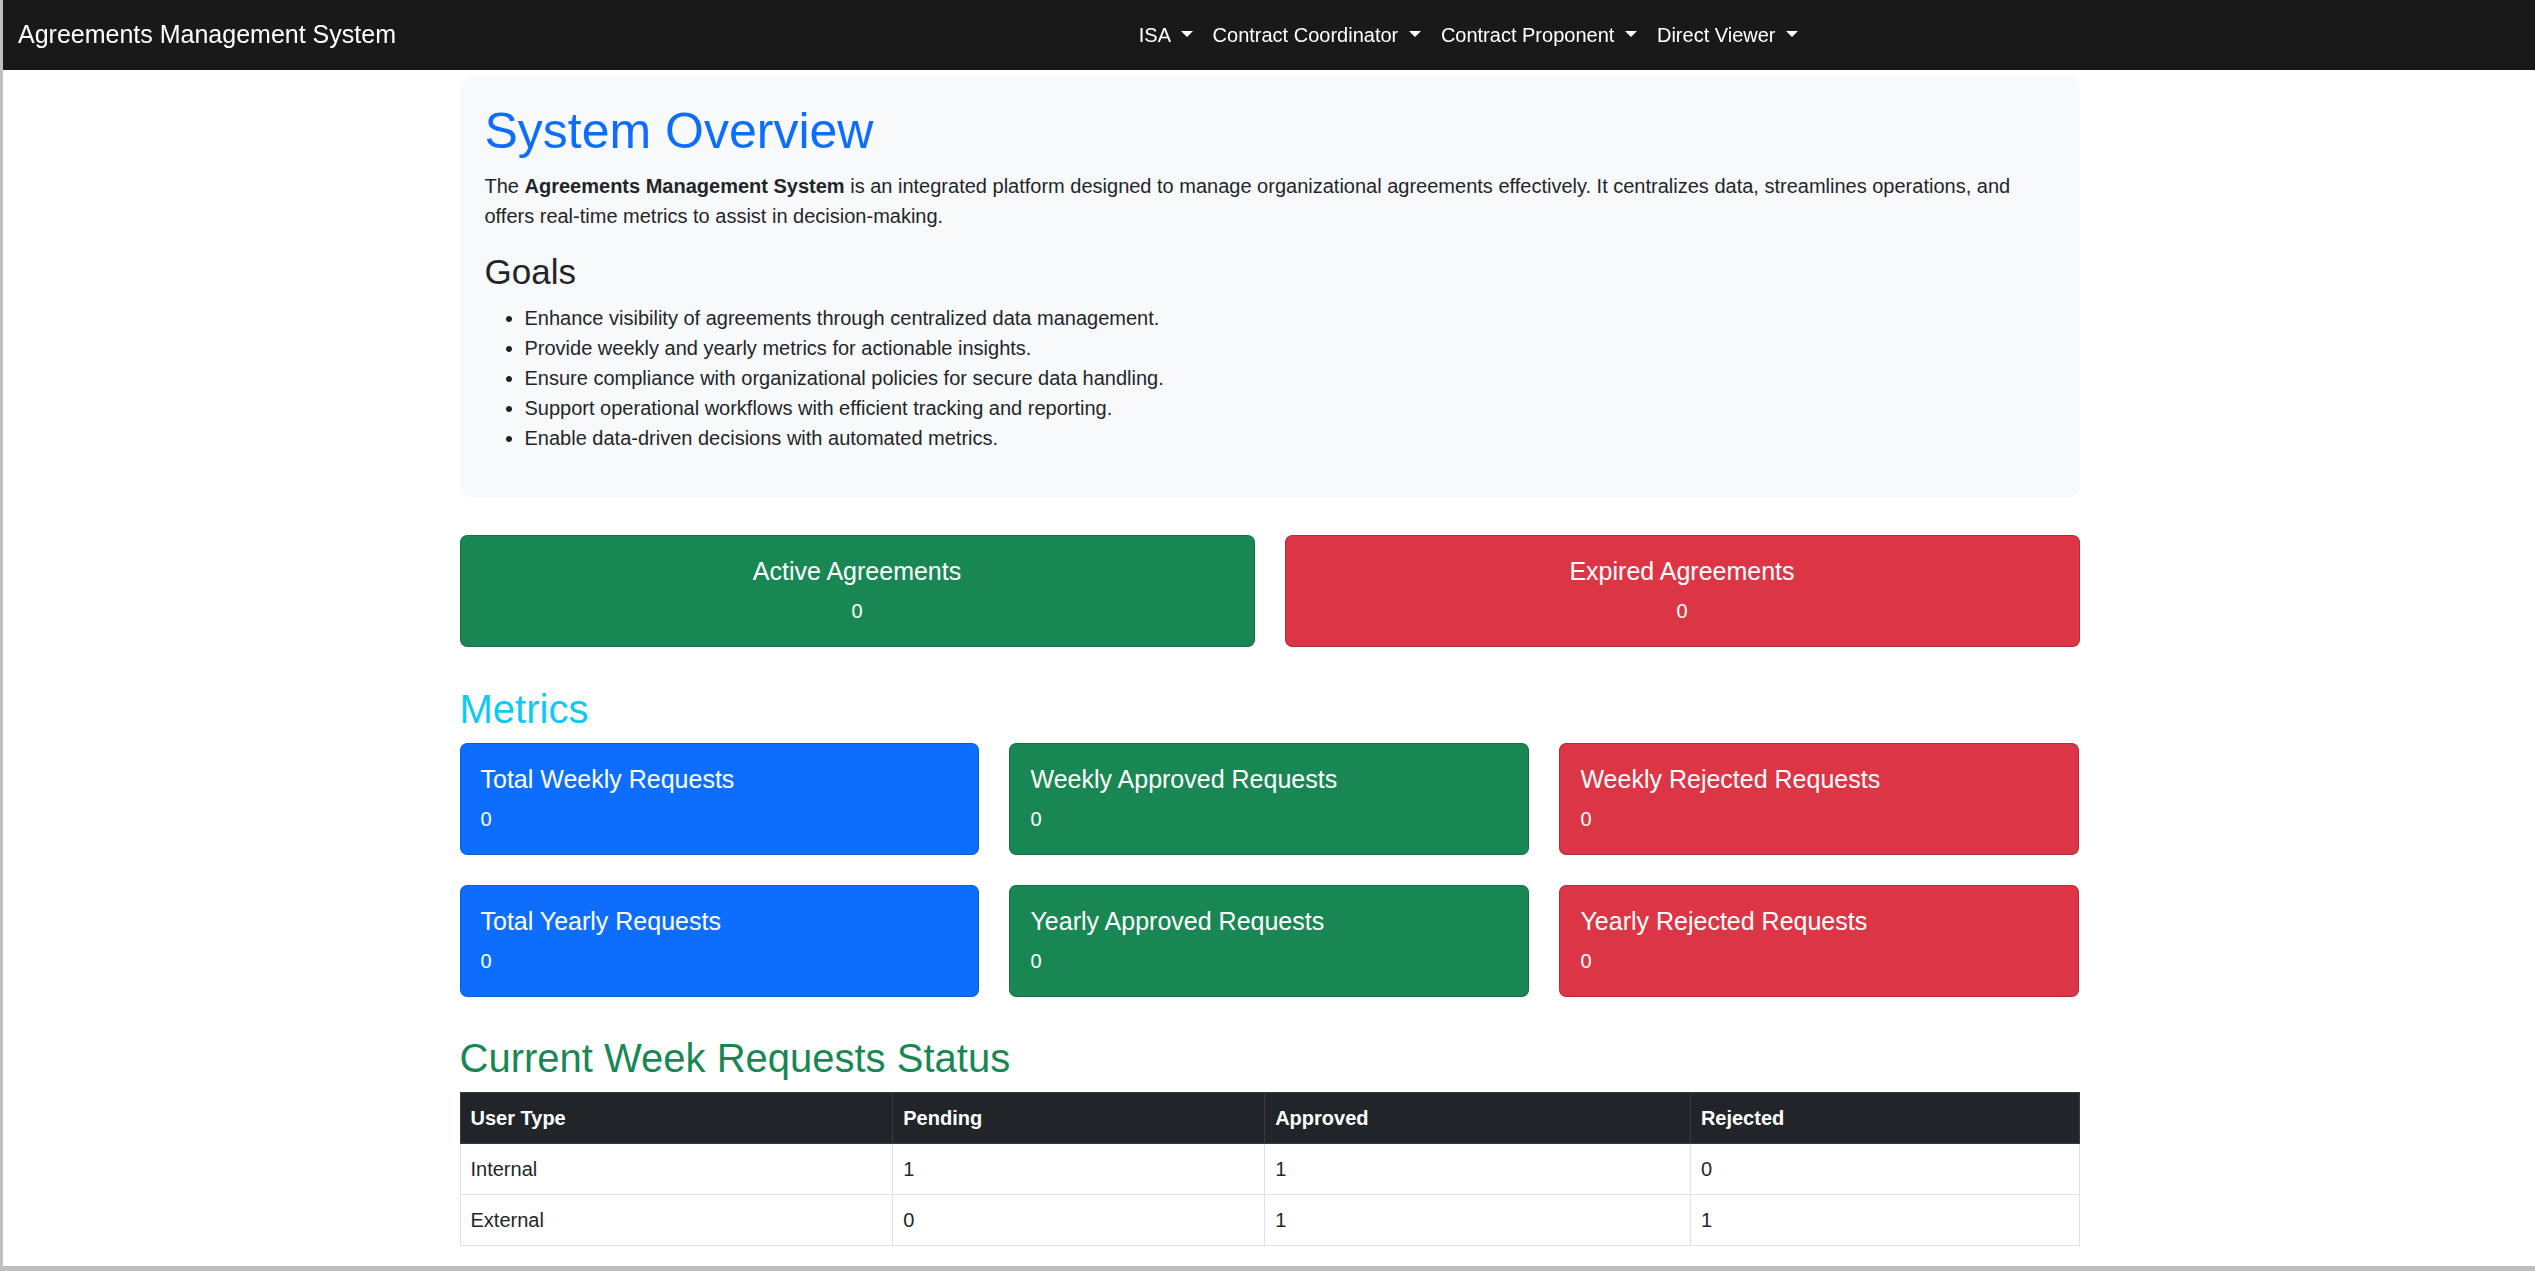
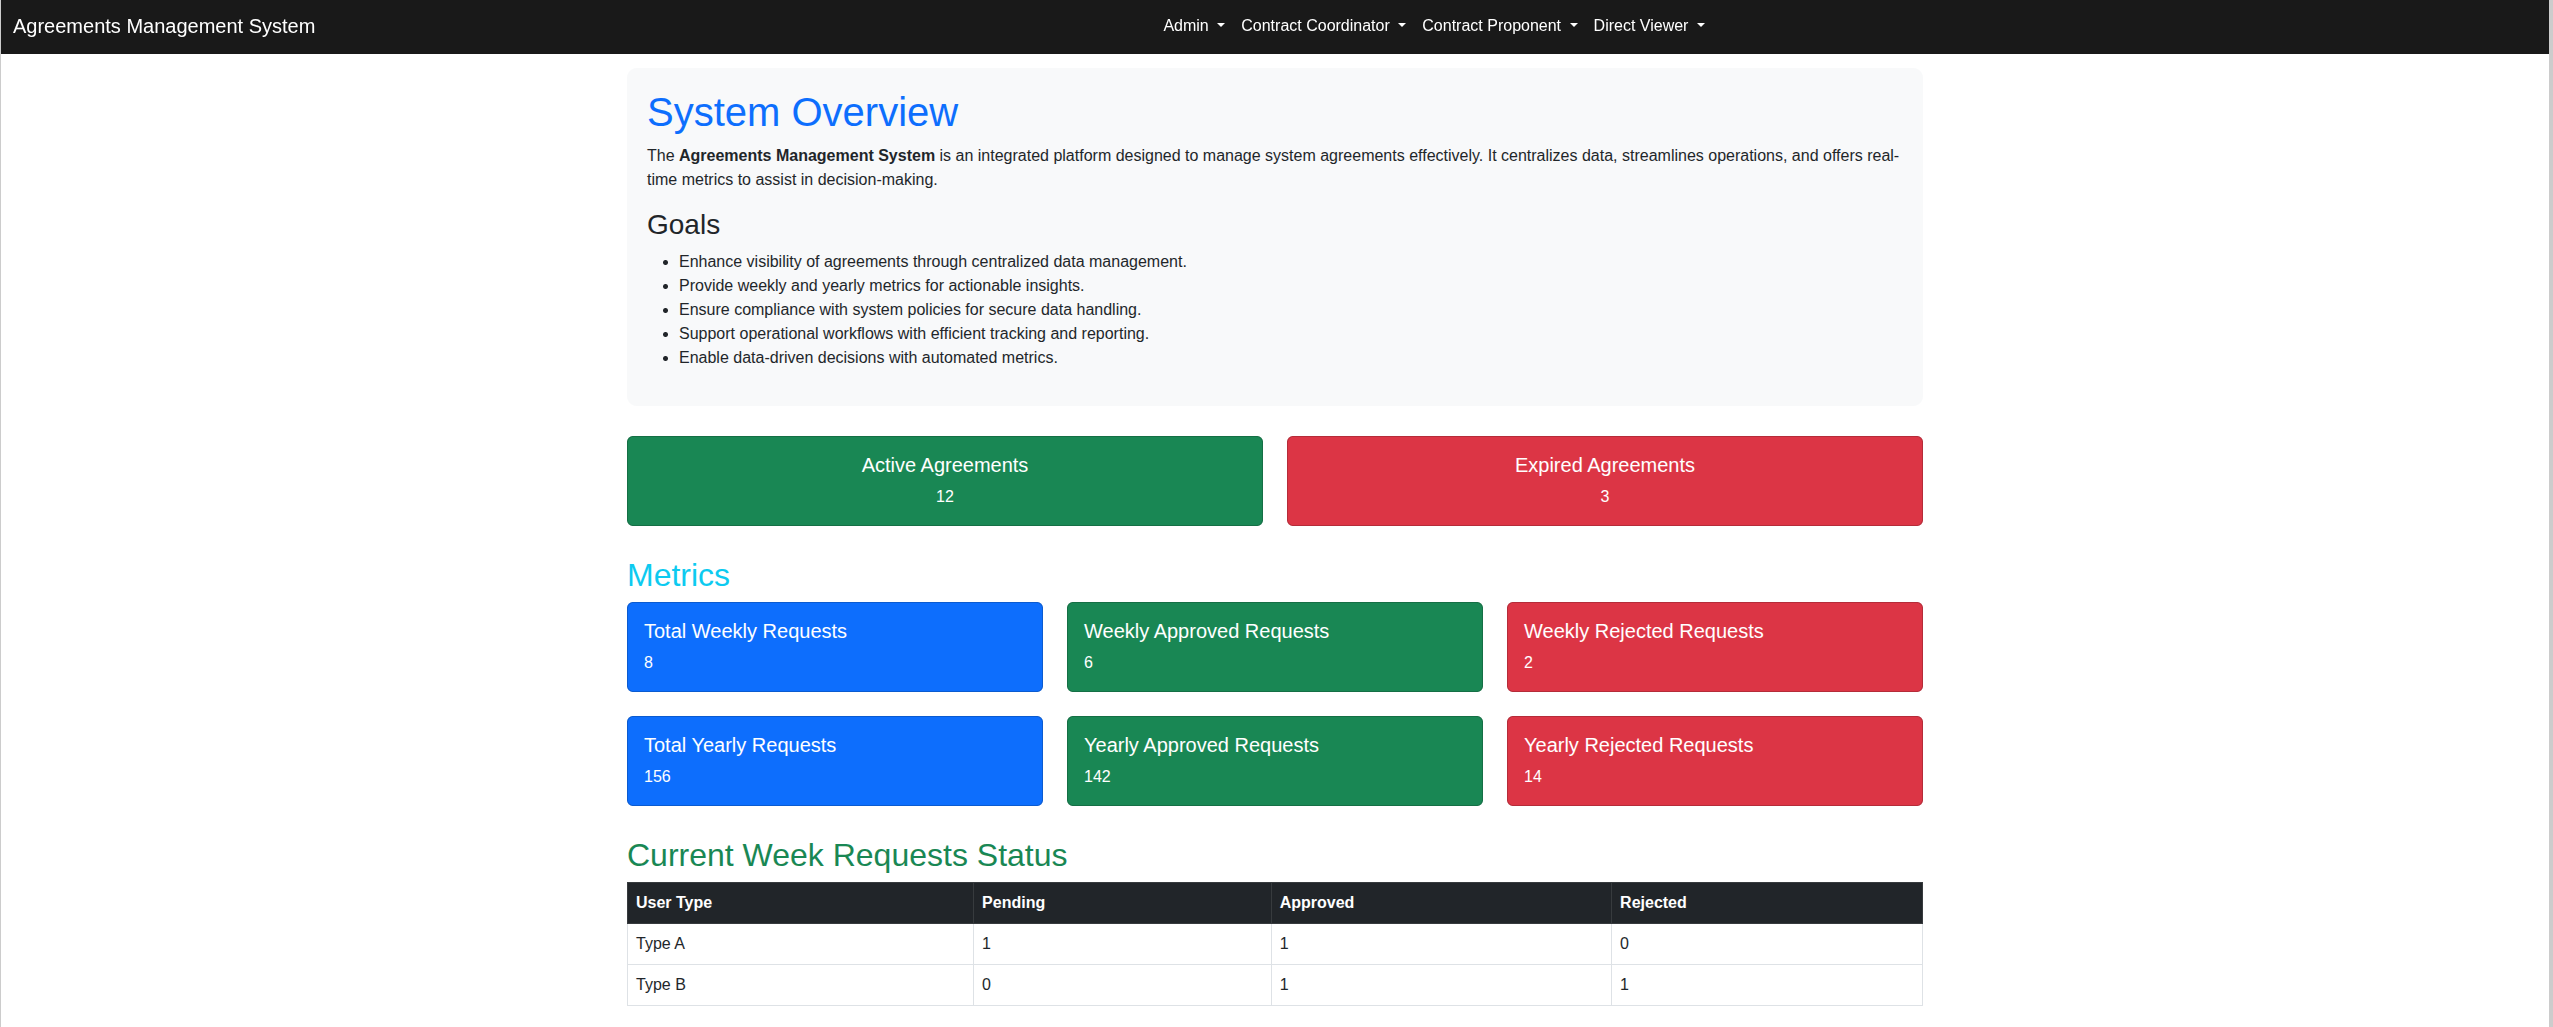
Add completed project

diff --git a/project-04-3rdAgr/Agreements Managment System.html b/project-04-3rdAgr/Agreements Managment System.html
@@ -80,11 +80,11 @@
                 <ul class="navbar-nav">
                     <li class="nav-item dropdown">
                         <a class="nav-link dropdown-toggle" href="#" role="button" data-bs-toggle="dropdown">
-                            ISA
+                            Admin
                         </a>
                         <ul class="dropdown-menu">
-                            <li><a class="dropdown-item" href="#isa-site1">ISA Site 1</a></li>
-                            <li><a class="dropdown-item" href="#isa-site2">ISA Site 2</a></li>
+                            <li><a class="dropdown-item" href="#admin-site1">Admin Site 1</a></li>
+                            <li><a class="dropdown-item" href="#admin-site2">Admin Site 2</a></li>
                         </ul>
                     </li>
                     <li class="nav-item dropdown">
@@ -125,14 +125,14 @@
         <div class="overview-section">
             <h1 class="text-primary">System Overview</h1>
             <p>
-                The <strong>Agreements Management System</strong> is an integrated platform designed to manage organizational agreements effectively. 
+                The <strong>Agreements Management System</strong> is an integrated platform designed to manage system agreements effectively. 
                 It centralizes data, streamlines operations, and offers real-time metrics to assist in decision-making.
             </p>
             <h3>Goals</h3>
             <ul>
                 <li>Enhance visibility of agreements through centralized data management.</li>
                 <li>Provide weekly and yearly metrics for actionable insights.</li>
-                <li>Ensure compliance with organizational policies for secure data handling.</li>
+                <li>Ensure compliance with system policies for secure data handling.</li>
                 <li>Support operational workflows with efficient tracking and reporting.</li>
                 <li>Enable data-driven decisions with automated metrics.</li>
             </ul>
@@ -231,16 +231,16 @@
                 </thead>
                 <tbody>
                     <tr>
-                        <td>Internal</td>
-                        <td id="internal-pending">0</td>
-                        <td id="internal-approved">0</td>
-                        <td id="internal-rejected">0</td>
+                        <td>Type A</td>
+                        <td id="typea-pending">0</td>
+                        <td id="typea-approved">0</td>
+                        <td id="typea-rejected">0</td>
                     </tr>
                     <tr>
-                        <td>External</td>
-                        <td id="external-pending">0</td>
-                        <td id="external-approved">0</td>
-                        <td id="external-rejected">0</td>
+                        <td>Type B</td>
+                        <td id="typeb-pending">0</td>
+                        <td id="typeb-approved">0</td>
+                        <td id="typeb-rejected">0</td>
                     </tr>
                 </tbody>
             </table>

diff --git a/project-04-3rdAgr/script.js b/project-04-3rdAgr/script.js
@@ -10,16 +10,16 @@ window.addEventListener('scroll', () => {
 
 // Offline Mode - Example Data
 const exampleData = [
-    { id: 1, type: "Add Permission", userType: "Internal", status: "Approved", date: "2024-11-20" },
-    { id: 2, type: "Add Permission", userType: "External", status: "Rejected", date: "2024-11-19" },
-    { id: 3, type: "Add Permission", userType: "Internal", status: "Pending", date: "2024-11-21" },
-    { id: 4, type: "Add Permission", userType: "External", status: "Approved", date: "2024-11-20" },
+    { id: 1, type: "Add Permission", userType: "Type A", status: "Approved", date: "2024-11-20" },
+    { id: 2, type: "Add Permission", userType: "Type B", status: "Rejected", date: "2024-11-19" },
+    { id: 3, type: "Add Permission", userType: "Type A", status: "Pending", date: "2024-11-21" },
+    { id: 4, type: "Add Permission", userType: "Type B", status: "Approved", date: "2024-11-20" },
 ];
 
 function updateTableOffline(data) {
     const counts = {
-        Internal: { Pending: 0, Approved: 0, Rejected: 0 },
-        External: { Pending: 0, Approved: 0, Rejected: 0 },
+        "Type A": { Pending: 0, Approved: 0, Rejected: 0 },
+        "Type B": { Pending: 0, Approved: 0, Rejected: 0 },
     };
 
     data.forEach(item => {
@@ -28,12 +28,12 @@ function updateTableOffline(data) {
         }
     });
 
-    document.getElementById("internal-pending").innerText = counts.Internal.Pending;
-    document.getElementById("internal-approved").innerText = counts.Internal.Approved;
-    document.getElementById("internal-rejected").innerText = counts.Internal.Rejected;
-    document.getElementById("external-pending").innerText = counts.External.Pending;
-    document.getElementById("external-approved").innerText = counts.External.Approved;
-    document.getElementById("external-rejected").innerText = counts.External.Rejected;
+    document.getElementById("typea-pending").innerText = counts["Type A"].Pending;
+    document.getElementById("typea-approved").innerText = counts["Type A"].Approved;
+    document.getElementById("typea-rejected").innerText = counts["Type A"].Rejected;
+    document.getElementById("typeb-pending").innerText = counts["Type B"].Pending;
+    document.getElementById("typeb-approved").innerText = counts["Type B"].Approved;
+    document.getElementById("typeb-rejected").innerText = counts["Type B"].Rejected;
 }
 
 // Online Mode - SharePoint Integration

diff --git a/project-04-3rdAgr/README.md b/project-04-3rdAgr/README.md
@@ -9,7 +9,7 @@
 
 ## 🎯 Overview
 
-Web-based management system for organizational agreements with real-time analytics and reporting capabilities. Features comprehensive tracking and role-based access control for efficient workflow management.
+Web-based management system for business agreements with real-time analytics and reporting capabilities. Features comprehensive tracking and role-based access control for efficient workflow management.
 
 ## 📸 Application Preview
 
@@ -21,14 +21,14 @@ Web-based management system for organizational agreements with real-time analyti
 
 - 📅 **Agreement Management** - Track active and expired agreements
 - 📊 **Real-time Metrics** - Weekly and yearly statistics dashboard
-- 🔐 **Role-based Access** - ISA, Contract Coordinator, Proponent, and Viewer roles
-- 📋 **Request Tracking** - Internal vs External request status monitoring
+- 🔐 **Role-based Access** - Admin, Contract Coordinator, Proponent, and Viewer roles
+- 📋 **Request Tracking** - Type A vs Type B request status monitoring
 - 🎨 **Dynamic Navigation** - Scroll-responsive navbar with visual transitions
 - 📱 **Responsive Design** - Mobile-friendly Bootstrap 5 interface
 
 ## 🚀 SharePoint Integration
 
-Integrated with SharePoint API to fetch agreement data, request statuses, and metrics from multiple lists including Agreements, Internal Requests, and External Requests with automated data processing and visualization.
+Integrated with SharePoint API to fetch agreement data, request statuses, and metrics from multiple lists including Agreements, Type A Requests, and Type B Requests with automated data processing and visualization.
 
 ## 🛠 Technical Stack
 
@@ -65,8 +65,8 @@ Integrated with SharePoint API to fetch agreement data, request statuses, and me
 
 <div align="center">
 
-**Enterprise Third-Party Agreement Management Platform**
+**Business Third-Party Agreement Management Platform**
 
-*Built for organizational efficiency and compliance-driven decision making*
+*Built for system efficiency and compliance-driven decision making*
 
 </div>
